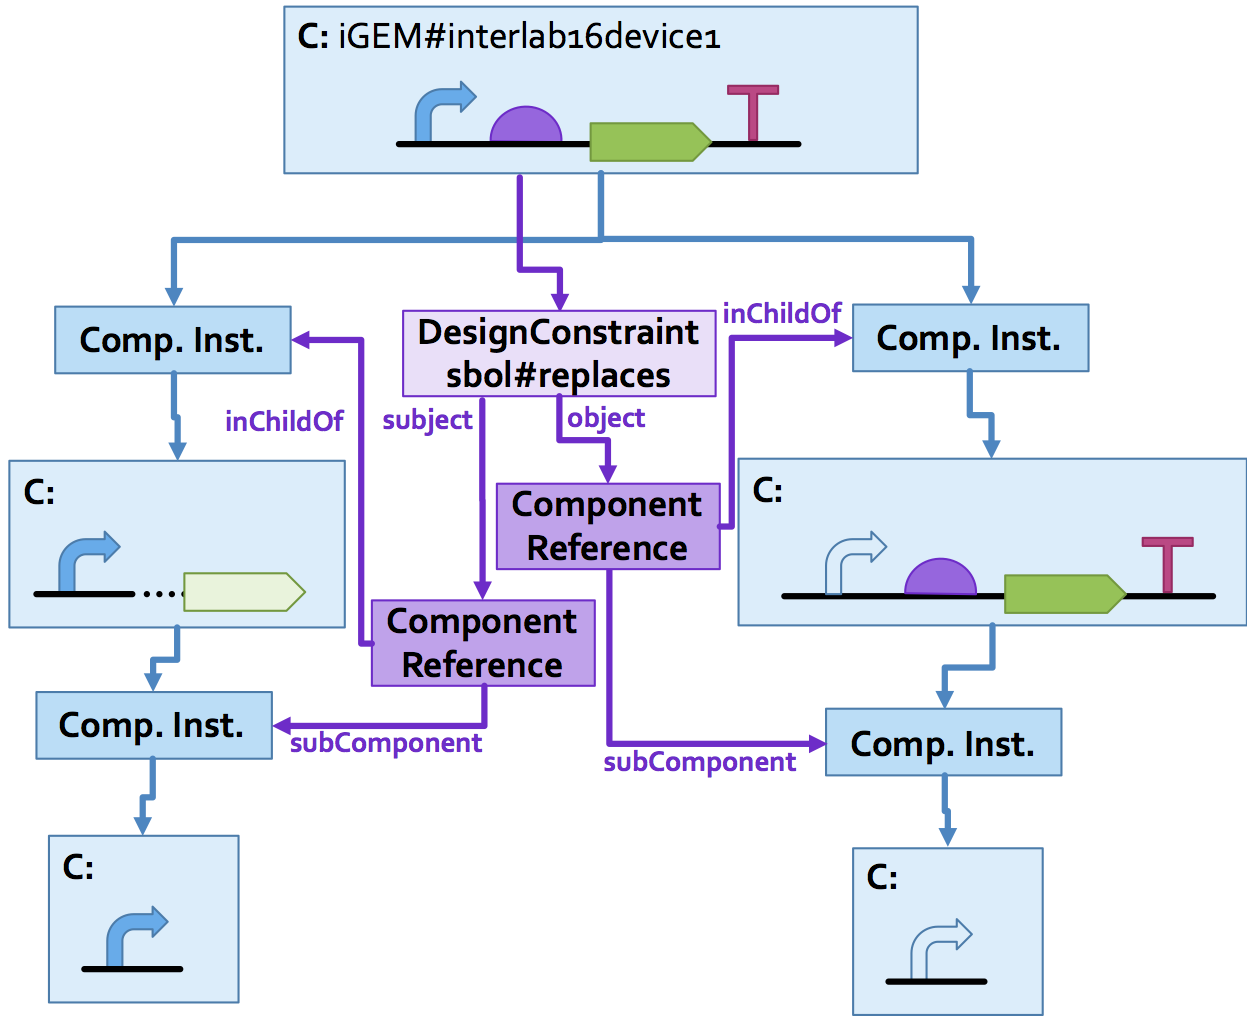
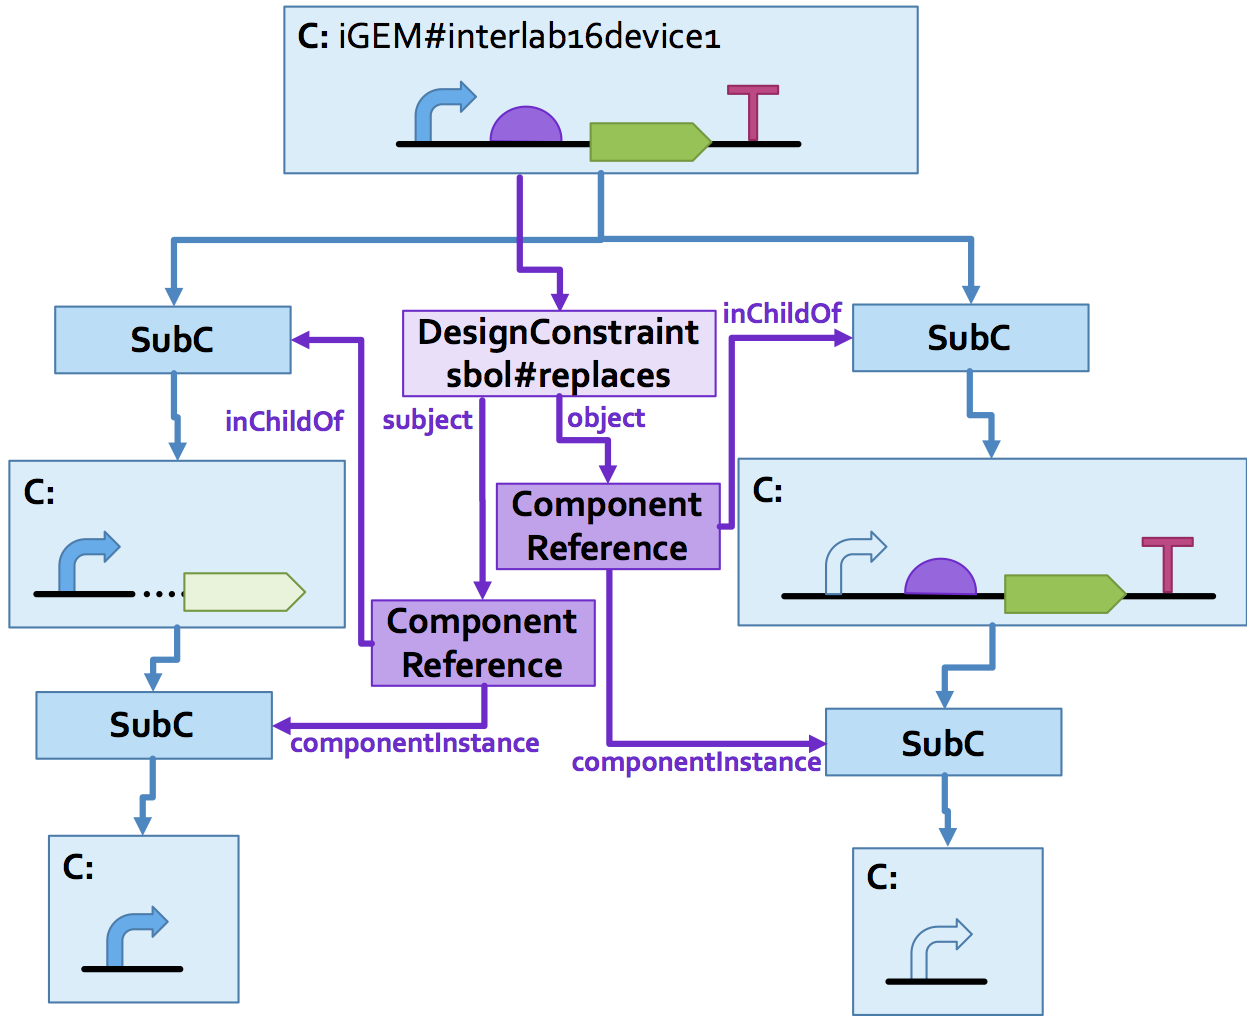
swap ComponentInstance and SubComponent in SEP 036, 037, 043

diff --git a/sep_036.md b/sep_036.md
@@ -15,7 +15,7 @@ SEP                     | 036
 
 ## Abstract
 
-This proposal adds an option for as `SubComponent` to use reference external definitions in databases like CHEBI or UniProt.
+This proposal adds an option for a `ComponentInstance` to use reference external definitions in databases like CHEBI or UniProt.
 
 ## Motivation <a name='motivation'></a>
 
@@ -23,11 +23,11 @@ When designs include small molecules, proteins, and reagents, right now they oft
 
 Doing this tends to obfuscate the sharing of reagents, by causing there to be many copies of the same reagent in different namespaces (or even the same namespace, due to accidental duplications).
 
-Instead, we propose to provide an option for a `SubComponent` sibling class to `ComponentInstance` that goes directly to a non-SBOL grounding term rather than having to go through an "empty" `ComponentDefinition`.
+Instead, we propose to provide an option for a `ComponentInstance` sibling class to `SubComponent` that goes directly to a non-SBOL grounding term rather than having to go through an "empty" `ComponentDefinition`.
 
 ## Specification <a name='specification'></a>
 
-In harmony with SEP 015, the new `ExternalReference` class is taken to be a sibling class of `ComponentInstance`, below the new unifying `SubComponent` class.
+In harmony with SEP 015, the new `ExternalReference` class is taken to be a sibling class of `SubComponent`, below the new unifying `ComponentInstance` class.
 
 ![examples](images/sep_036_classes.png)
 
@@ -37,7 +37,7 @@ The `ExternalReference` class has the following three fields:
 - The `definition` field is a link to a canonical definition external to SBOL.
 - The `types` field is identical to its use in `ComponentDefinition`
 
-The `roles` and `direction` fields are shared, and thus placed on `SubComponent`.
+The `roles` and `direction` fields are shared, and thus placed on `ComponentInstance`.
 
 The `access` field is also dropped as generally unused and redundant with `direction`.
 
@@ -48,15 +48,17 @@ We may also add a weak validation rule that `definition` SHOULD refer to a non-S
 
 ## Backwards Compatibility <a name='compatibility'></a>
 
-This is an SBOL 3 change because it depends on changes being made in the `SubComponent` class hierarchy.  
+This is an SBOL 3 change because it depends on changes being made in the `SubComponent` and related class hierarchy.  
 
-An `ExternalReference` can be down-converted to SBOL 2 by creating an "empty" `ComponentDefinition` and linking it with an appropriate type of `ComponentInstance`.
+An `ExternalReference` can be down-converted to SBOL 2 by creating an "empty" `ComponentDefinition` and linking it with an appropriate type of SBOL 2 `Component`.
 
-Upconversion of SBOL 2 is a "nice to have", since an "empty" ComponentDefinition is still valid under this proposal, just no longer necessary.  Implementing upconversion may be complicated, as one has to detect "empty" ComponentDefinition objects and figure out what convention was being used for linking to the external reference. This has typically been either a wasDerivedFrom link or a non-standard type, but may not be entirely automatable.
+Upconversion of SBOL 2 is a "nice to have", since an "empty" `ComponentDefinition` is still valid under this proposal, just no longer necessary.  Implementing upconversion may be complicated, as one has to detect "empty" `ComponentDefinition` objects and figure out what convention was being used for linking to the external reference. This has typically been either a wasDerivedFrom link or a non-standard type, but may not be entirely automatable.
 
 ## Discussion <a name='discussion'></a>
 
-The original proposal was to just modify `ComponentInstance`.  Since SEP 037 is creating a "pointer" class sibling to `ComponentInstance`, however, it seems sensible to do the same rather than unnecessarily complicating `ComponentInstance`, since there is no benefit here to accessing additional fields like `sourceLocations`.
+The original proposal was to just modify `SubComponent` by allowing an optional type and making definition optional.  Since SEP 037 is creating a "pointer" class sibling to `ComponentInstance`, however, it seems sensible to do the same rather than unnecessarily complicating `SubComponent`, since there is no benefit here to accessing additional fields like `sourceLocations` and `roleIntegration`.
+
+The names of SubComponent and ComponentInstance have been swapped.
 
 ## Competing SEPs <a name='competing_seps'></a>
 

diff --git a/sep_037.md b/sep_037.md
@@ -39,7 +39,7 @@ Similar problems occur when linking equivalent objects via MapsTo, as shown in t
 
 ### Class Structure
 
-In harmony with SEP 015, the new `ComponentReference` class is taken to be a sibling class of `ComponentInstance`, below the new unifying `SubComponent` class.
+In harmony with SEP 015, the new `ComponentReference` class is taken to be a sibling class of `SubComponent`, below the new unifying `ComponentInstance` class.
 
 ![examples](images/sep_037_classes.png)
 
@@ -49,12 +49,12 @@ Note that this class diagram assumes SBOL 3 implementation of SEP 025, SEP 015, 
 
 A `ComponentReference` object provides access to `SubComponent` objects that are contained within the children of a `ComponentDefinition` or `ModuleDefinition`.  Its fields are:
 
-- `inChildOf`[1] : URI for a `ComponentInstance`
-- `subComponent`[0..1] : URI for a `SubComponent`
+- `inChildOf`[1] : URI for a `SubComponent`
+- `componentInstance`[0..1] : URI for a `ComponentInstance`
 
 The validation rules are:
-- `inChildOf` must refer to a `ComponentInstance` pointed directly to by the parent of the `ComponentReference` (i.e., as a `subComponent` of `Component`, or an `inChildOf` of `ComponentReference`)
-- If `subComponent` is a `ComponentInstance`, then it must be a child of the `ComponentInstance` pointed to by `inChildOf`
+- `inChildOf` must refer to a `SubComponent` pointed directly to by the parent of the `ComponentReference` (i.e., as a `subComponent` of `Component`, or an `inChildOf` of `ComponentReference`)
+- If `componentInstance` is a `SubComponent`, then it must be a child of the `SubComponent` pointed to by `inChildOf`
 
 Examples of using `ComponentReference`:
 ![examples](images/sep_037_Reference_1layer.png)
@@ -77,7 +77,7 @@ Example of using `DesignConstraint`:
 
 ### Adjusted fields for Component and Participation
 
-Everywhere that we can currently refer to a `ComponentInstance` (or SBOL2 subclass thereof), we adjust to refer to a `SubComponent`, thus allowing it to contain either instances or references.
+Everywhere that we can currently refer to a `SubComponent` (or SBOL2 subclass thereof), we adjust to refer to a `ComponentInstance`, thus allowing it to contain either instances or references.
 
 ### Removal of MapsTo
 
@@ -91,20 +91,22 @@ As such, `MapsTo` will be removed SBOL 3.
 
 From SBOL 2 to SBOL3:
 
-Any SBOL 2 usage of `MapsTo` with a value other than `merge` can be converted to a `DesignConstraint`. As an optimization, non-useful `SubComponents` may be replaced with `ComponentReference` objects
+Any SBOL 2 usage of `MapsTo` with a value other than `merge` can be converted to a `DesignConstraint`. As an optimization, non-useful `SubComponent` objects may be replaced with `ComponentReference` objects
 
 From SBOL 3 to SBOL 2, single-layer references may be converted to a duplicate object plus MapsTo. Not all references can be converted, hoewver.
 
 ## Discussion <a name='discussion'></a>
 
-Discussion considered the potential to have ComponentReference be a completely separate class from ComponentInstance rather than a sibling class. This was considered to introduce additional complexity that was not particularly valuable, whereas both were types of SubComponents.
+Discussion considered the potential to have ComponentReference be a completely separate class from SubComponent rather than a sibling class. This was considered to introduce additional complexity that was not particularly valuable, whereas both were types of ComponentInstances.
 
 As part of discussion, it was also noted that:
 
 - the access field on ComponentInstance should probably be dropped
 - After Component/Module merging, some of the fields would probably want to be applied to ComponentReference as well.
 
-These two changes have been moved to SEP 036.
+The names of SubComponent and ComponentInstance have been swapped.
+
+These three changes have been moved to SEP 036.
 
 DesignConstraint was originally a separate class, and before that a much more restricted n-way ComponentEquivalence, which also preserved the merge type but not the asymmetric replacement relationships. This was simplified after discussion.
 

diff --git a/sep_043.md b/sep_043.md
@@ -32,7 +32,7 @@ The thing that unifies these cirucmstances is that we know that the SubComponent
 
 ## 2. Specification <a name="specification"></a>
 
-In harmony with SEP 036 and SEP 037, the new `LocalSubComponent` class is taken to be a sibling class of `ComponentInstance`, below the new unifying `SubComponent` class.
+In harmony with SEP 036 and SEP 037, the new `LocalSubComponent` class is taken to be a sibling class of `SubComponent`, below the new unifying `ComponentInstance` class.
 
 ![examples](images/sep_043_classes.png)
 
@@ -47,10 +47,10 @@ The `LocalSubComponent` class has only one field, `types`, which is identical to
 
 Consider a component used for describing a library of cassettes with variable ribosome entry sites.  Its members are:
 
-* ComponentInstance: promoter, with definition of BioBrick J23101, an Anderson library promoter.
+* SubComponent: promoter, with definition of BioBrick J23101, an Anderson library promoter.
 * LocalSubComponent: RES, with type: DNA and role: SO:0000139 - Ribosome Entry Site
-* ComponentInstance: CDS, with definition of BioBrick E0040 - GFPmut3 
-* ComponentInstance: terminator, with definition of BioBrick B0015 - double terminator
+* SubComponent: CDS, with definition of BioBrick E0040 - GFPmut3 
+* SubComponent: terminator, with definition of BioBrick B0015 - double terminator
 * SequenceConstraints: promoter -> RES --> CDS --> terminator
 
 The LocalSubComponent can then be instantiated as the Variant in a combinatorial design or via other one-off usages of this template.
@@ -97,7 +97,7 @@ In this way, the LocalSubComponent is used to represent the fused piece of DNA t
 
 There is a bidirectional mapping from SBOL 2 to SBOL 3:
 
-From SBOL 2 to SBOL 3: LocalSubComponent is not necessary, so no conversion is technically needed. As an post-convertion optimization, however, any ComponentInstance whose definition has no content other than its types and rules may be converted into a LocalSubComponent.
+From SBOL 2 to SBOL 3: LocalSubComponent is not necessary, so no conversion is technically needed. As an post-convertion optimization, however, any SubComponent whose definition has no content other than its types and rules may be converted into a LocalSubComponent.
 
 
 From SBOL 3 to SBOL 2, any LocalSubComponent can be converted into a Component or FunctionalComponent (depending on context) whose definition is a new ComponentDefinition carrying its types and roles.
@@ -106,7 +106,7 @@ From SBOL 3 to SBOL 2, any LocalSubComponent can be converted into a Component o
 
 ## 5. Discussion <a name='discussion'></a>
 
-A potential alternative implementation is to make the `definition` field of ComponentInstance optional.  This would avoid adding a new class, but prevent distinguishing between a SubComponent with a missing definition (an error) and a SubComponent that is intentionally not provided with a definition.
+A potential alternative implementation is to make the `definition` field of SubComponent optional.  This would avoid adding a new class, but prevent distinguishing between a SubComponent with a missing definition (an error) and a SubComponent that is intentionally not provided with a definition.
 
 A potential strengthening to consider would be to restrict the `variable` field of `VariableComponent` to point only to `LocalSubComponent` objects, and not just any `SubComponent`.  This might be overly restrictive, however.
 
